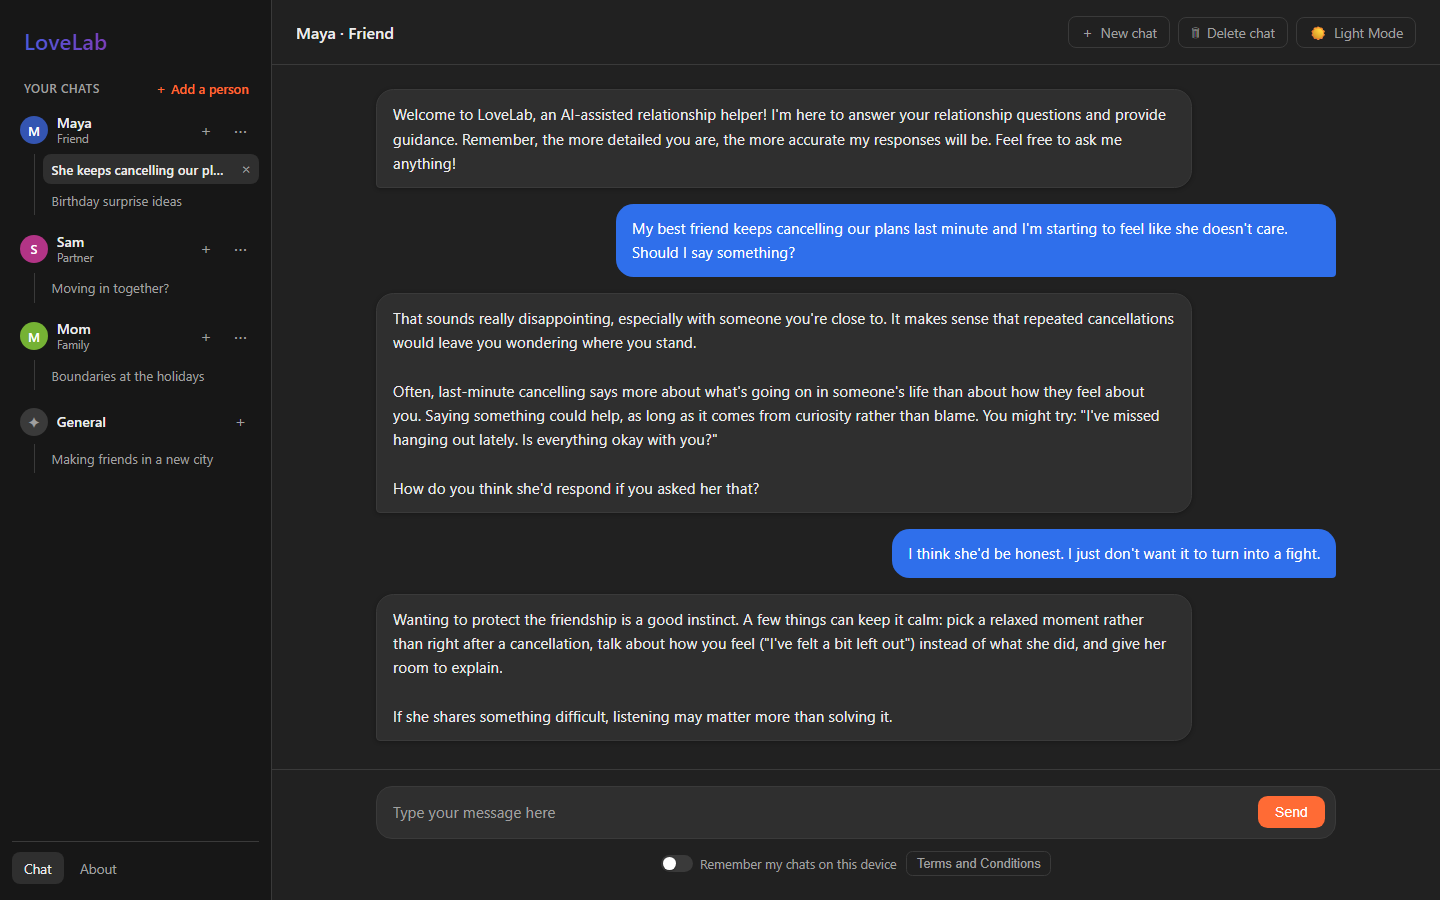
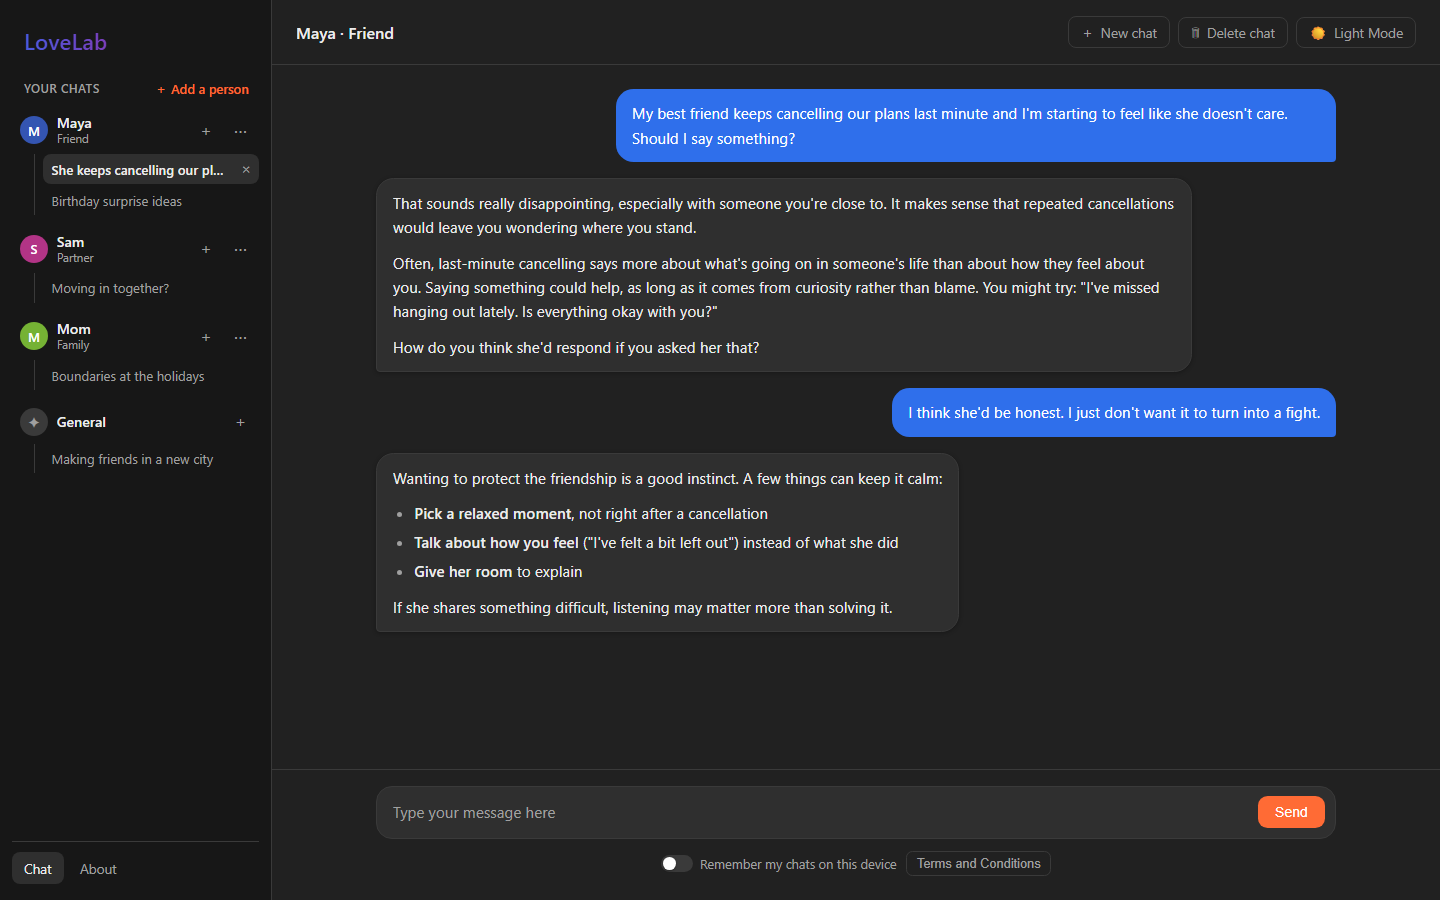
docs: Align the Terms and README with the code and refresh screenshots
- Clarify what's stored and when the daily secret is deleted (no re-agreement needed)
- README describes current behavior; screenshots show the current design

diff --git a/templates/about.html b/templates/about.html
@@ -51,7 +51,7 @@
                             <li>It's an AI, not a person. No human reads replies before you do.</li>
                             <li>It's not therapy, or medical, legal or professional advice.</li>
                             <li>It can be wrong. Use your own judgment for important decisions.</li>
-                            <li>It only discusses relationships, and always replies in English.</li>
+                            <li>It only discusses relationships, and replies in English.</li>
                         </ul>
                     </div>
                 </div>

diff --git a/README.md b/README.md
@@ -16,8 +16,8 @@ partner, family, friends or coworkers and get warm, practical guidance, with no 
 ## Features
 
 - **Chats organized by person.** Keep separate conversations about each person in your life.
-- **Private by design.** No accounts, no cookies, and chats stay on your device unless you choose
-  to remember them. Stored logs are anonymized.
+- **Private by design.** No accounts or cookies. Chats are saved only on your device (for 30 days
+  if you choose to remember them), and stored logs are anonymized.
 - **Focused and safe.** Off-topic requests are gently declined, and messages about danger or
   self-harm are prioritized, with a caring reply and crisis resources.
 - **Responsive.** Works on phones and large monitors, in light and dark mode.
@@ -26,7 +26,9 @@ partner, family, friends or coworkers and get warm, practical guidance, with no 
 
 ```mermaid
 flowchart LR
-    B[Browser] -->|POST /| L{Rate limiter}
+    B[Browser] -->|POST /| V{Valid message?}
+    V -->|no| R400[400 with a friendly message<br/>not counted toward limits]
+    V -->|yes| L{Rate limiter}
     L -->|over limit| R429[429 with a friendly message]
     L --> F[Topic classifier<br/>OpenAI]
     F -->|not YES| OT[Friendly off-topic reply]
@@ -44,9 +46,9 @@ flowchart LR
 |---|---|
 | Prompt injection | Rules live in `instructions`, and user text is always passed as a separate message. The classifier treats the message as untrusted data and rejects attempts to change its task. The reply prompt tells the model to ignore role or persona changes. |
 | Forged history | Each chat's recent history travels as a signed token (itsdangerous) that expires after 31 days. Tampered, expired or foreign-key tokens are ignored, and even a valid token only contributes `user` and `assistant` text. |
-| Anonymous analytics | IPs are HMAC-hashed with a random secret that **rotates daily** and is then deleted. Messages from one visitor can be grouped within a day, but never linked to an IP address or across days. |
-| Data kept by third parties | OpenAI calls use `store=False`, so conversations aren't kept for later retrieval in the OpenAI dashboard. |
-| Shared devices | Chats are saved in `sessionStorage` (cleared when the tab closes) unless the visitor opts in to remembering, and remembered chats expire 30 days after their last message. The site sets no cookies, so deleting a chat on the device leaves nothing behind except the anonymized log. |
+| Anonymous analytics | IPs are HMAC-hashed with a random secret that **rotates daily** and is deleted shortly after each day ends. Messages from one visitor can be grouped within a day, but once the secret is gone they can't be linked to an IP address or across days. |
+| Data kept by third parties | OpenAI calls use `store=False`, so conversations aren't kept for later retrieval in the OpenAI dashboard (OpenAI may still keep them for up to 30 days to monitor for abuse). |
+| Shared devices | Chats are saved in `sessionStorage` (cleared when the tab closes) unless the visitor opts in to remembering, and remembered chats expire 30 days after their last message. The site sets no cookies, so deleting a chat leaves nothing behind on the device or LoveLab's servers except the anonymized log. |
 | Encryption in transit | In production, plain-HTTP requests are redirected to HTTPS (`308` for `POST`, so messages aren't silently dropped), and an `HSTS` header tells browsers to use HTTPS for the site from then on. |
 | Cross-site attacks | A strict Content-Security-Policy (no inline scripts or styles), `X-Frame-Options: DENY`, and no cookies to steal or ride on. All user-supplied text, including people's names, is rendered with `textContent`, never as HTML. |
 | Cost and availability | Per-call timeouts keep both OpenAI calls within Heroku's 30-second limit, automatic retries are off, and each reply has a hard token cap. A moving-window rate limit caps usage per visitor and globally, and only messages that reach OpenAI count toward it, so junk requests can't use up the site-wide limit. Page loads never touch the database. |
@@ -54,8 +56,8 @@ flowchart LR
 
 ## Tech stack
 
-Python, Flask, SQLAlchemy, PostgreSQL, the OpenAI Responses API, plain HTML/CSS/JavaScript,
-pytest, and Heroku.
+Python, Flask, SQLAlchemy, PostgreSQL, Redis (rate limits), the OpenAI Responses API, plain
+HTML/CSS/JavaScript, pytest, and Heroku.
 
 ## Running locally
 
